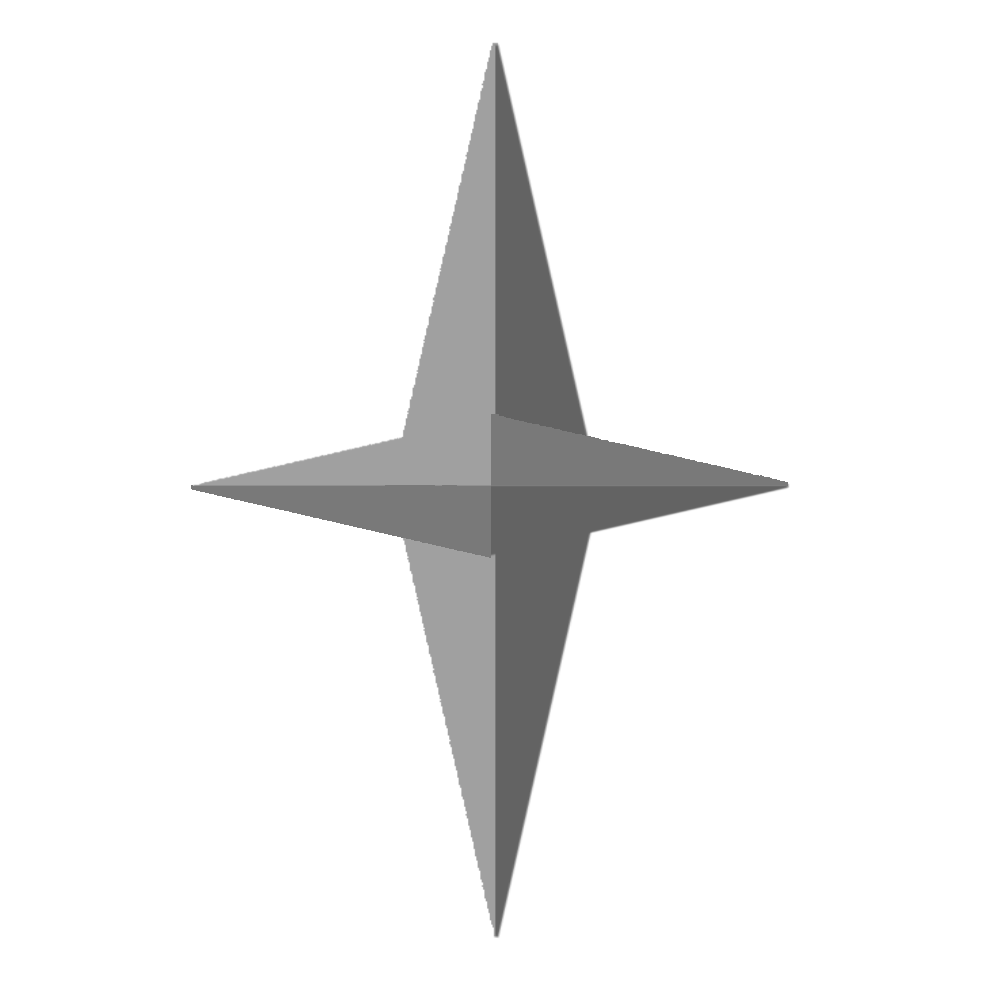
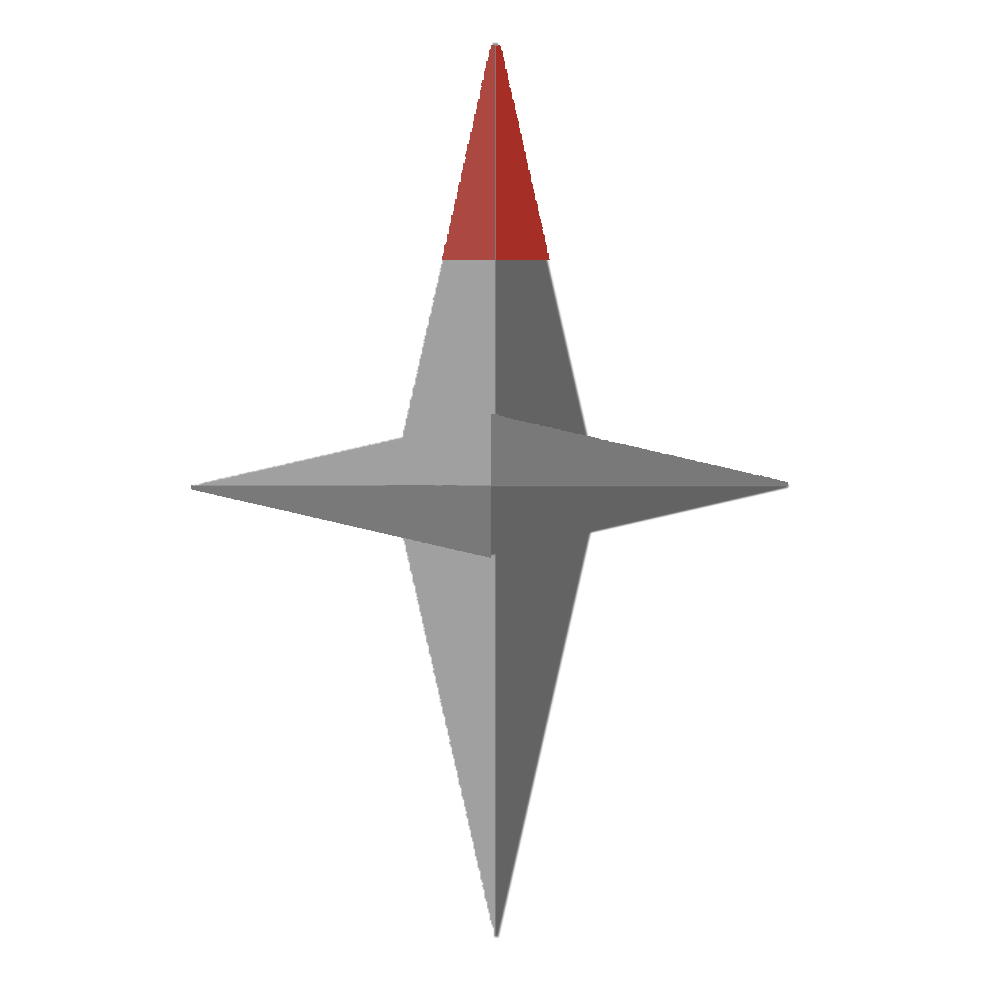
Aufgrund neuer Visualisierung des Windes Umbau Windrose zu Ziel-Compass

Changed region(s): [[0.434, 0.031, 0.558, 0.279]]

diff --git a/Assets/Code/Stations/WindManager.cs b/Assets/Code/Stations/WindManager.cs
@@ -1,12 +1,10 @@
 using System.Collections;
 using System.Collections.Generic;
 using UnityEngine;
-using UnityEngine.UI;
 
 public class WindManager : MonoBehaviour
 {
     // [SerializeField] private TextMeshProUGUI windText;
-    [SerializeField] private Image windRose;
     [SerializeField] private Transform windEffects;
 
     //WindDirection from 0 - 360 degrees as max value
@@ -28,12 +26,12 @@ public class WindManager : MonoBehaviour
         // Start the coroutine to update wind direction every 'interval' seconds
         StartCoroutine(UpdateWindDirection());
     }
+
     IEnumerator UpdateWindDirection()
     {
         while (true)
         {
             CalculateWindDirection();
-            UpdateWindRose();
             UpdateWindeffects();
             yield return new WaitForSeconds(interval);
         }
@@ -41,14 +39,8 @@ public class WindManager : MonoBehaviour
 
     private void CalculateWindDirection()
     {
-        windDirection += Random.Range(minChangeSpeed, maxChangeSpeed);;
+        windDirection += Random.Range(minChangeSpeed, maxChangeSpeed); ;
         windDirection = Mathf.Clamp(windDirection, minWindDirection, maxWindDirection);
-    }
-
-    private void UpdateWindRose()
-    {
-        // Rotate the wind rose to show the wind direction
-        windRose.transform.rotation = Quaternion.AngleAxis(windDirection, Vector3.back);
     }
 
     private void UpdateWindeffects()

diff --git a/Assets/Code/UI/compass.cs b/Assets/Code/UI/compass.cs
@@ -1,0 +1,29 @@
+using System.Collections;
+using System.Collections.Generic;
+using UnityEngine;
+using UnityEngine.UI;
+
+public class compass : MonoBehaviour
+{
+    [SerializeField] private GameObject boat;
+    [SerializeField] private GameObject finish;
+    [SerializeField] private RectTransform compassObject;
+
+    void Update()
+    {
+        // Berechne die Richtung vom Boot zum Ziel
+        Vector3 dir = finish.transform.position - boat.transform.position;
+
+        // Berechne den Winkel zur Ausrichtung des CompassObjects
+        float angle = Vector2.SignedAngle(Vector2.up, dir);
+
+        // Berücksichtige die aktuelle Rotation des Boots
+        float boatRotation = boat.transform.eulerAngles.z;
+
+        // Kombiniere den Winkel der Richtung mit der Rotation des Boots
+        float finalAngle = angle - boatRotation;
+
+        // Setze die Rotation des CompassObjects
+        compassObject.rotation = Quaternion.Euler(0, 0, finalAngle);
+    }
+}
